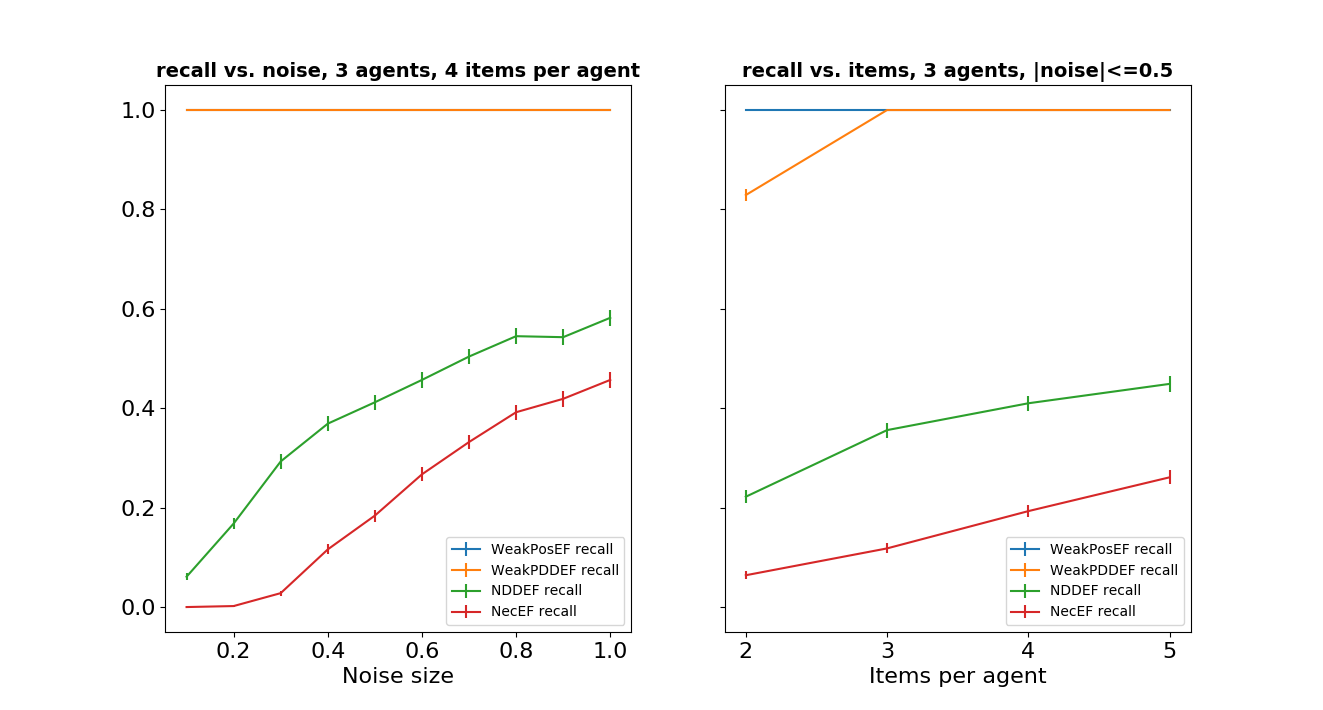
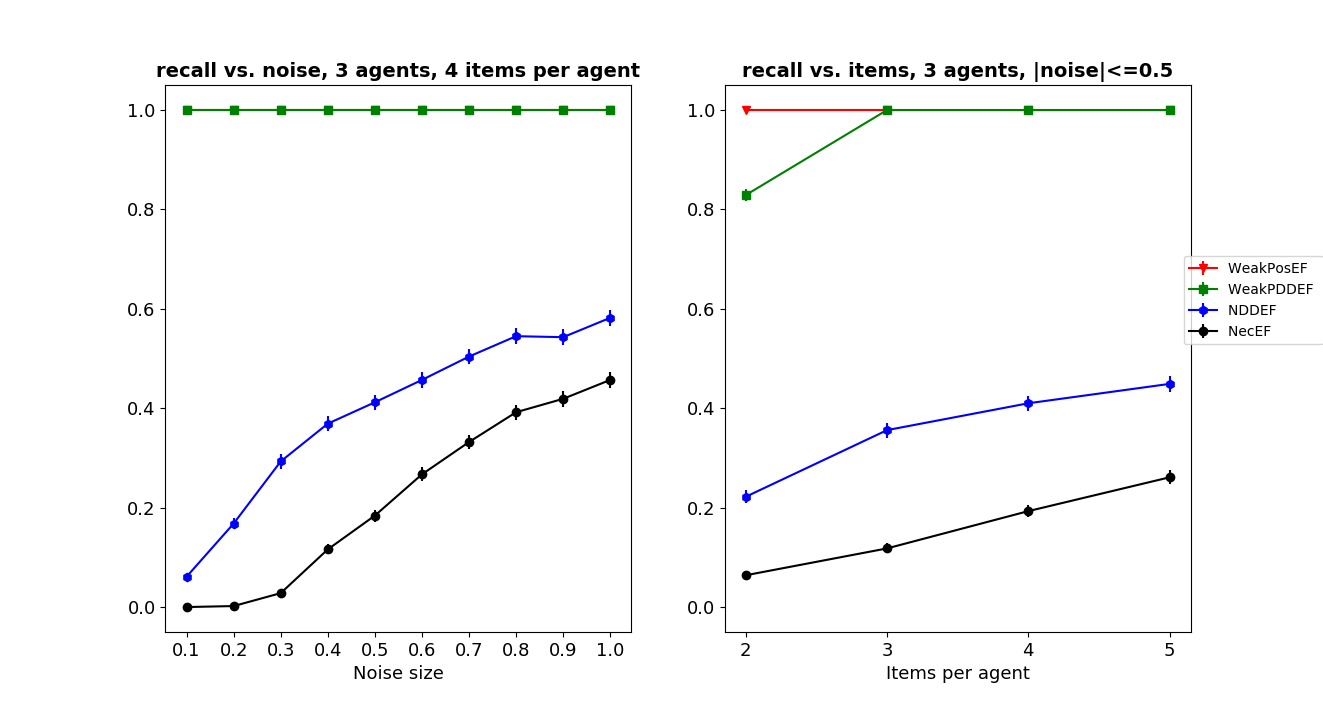
improve plots

diff --git a/simulations.py b/simulations.py
@@ -168,10 +168,13 @@ def simulateTwice(checkSingleProfile, columnNames:list,
 
 titleFontSize = 14
 legendFontSize = 10
-axesFontSize = 16
+axesFontSize = 13
 
 
-def plotResults(results1:DataFrame, results2:DataFrame, columnsAndStyles:list, title:str="probability", errorbars:bool=False):
+def plotResults(results1:DataFrame, results2:DataFrame, columnsAndStyles:list, title:str="probability", errorbars:bool=False, bbox_to_anchor=None):
+
+    ### Subplot 1: by noise size
+
     ax = plt.subplot(1, 2, 1)
     agentCount = int(results1['Agents'][0])
     iterations = int(results1['Iterations'][0])
@@ -181,11 +184,19 @@ def plotResults(results1:DataFrame, results2:DataFrame, columnsAndStyles:list, t
                  fontsize=titleFontSize, weight='bold')
     ax.set_xlabel('Noise size', fontsize=axesFontSize)
 
+    x_values = results1['Noise size']
     for columnName,style in columnsAndStyles:
-        results1.plot(x='Noise size', y=columnName, yerr=columnName+" err" if errorbars else None,
-                      ax=ax, legend=True, style=style, fontsize=axesFontSize)
+        y_values = results1[columnName]
+        if errorbars:
+            yerr_values = results1[columnName + " err"]
+            ax.errorbar(x_values, y_values, yerr=yerr_values, fmt=style)
+        else:
+            ax.plot(x_values, y_values, fmt=style)
+    plt.xticks(x_values.tolist(), fontsize=axesFontSize)
+    plt.yticks([0,0.2,0.4,0.6,0.8,1], fontsize=axesFontSize)
 
-    plt.legend(loc=0, prop={'size': legendFontSize})
+
+    ### Subplot 2: by number of items
 
     ax = plt.subplot(1, 2, 2, sharey=ax)
     agentCount = int(results2['Agents'][0])
@@ -195,15 +206,23 @@ def plotResults(results1:DataFrame, results2:DataFrame, columnsAndStyles:list, t
     ax.set_title(title+" vs. items, " + str(agentCount) + ' agents, |noise|<=' + str(maxNoise),
                  fontsize=titleFontSize, weight='bold')
     ax.set_xlabel('Items per agent', fontsize=axesFontSize)
-
+    x_values = results2['Items per agent']
     for columnName,style in columnsAndStyles:
-        results2.plot(x='Items per agent', y=columnName, yerr=columnName+" err" if errorbars else None,
-                      ax=ax, legend=True, style=style, fontsize=axesFontSize)
+        y_values = results2[columnName]
+        if errorbars:
+            yerr_values = results2[columnName + " err"]
+            ax.errorbar(x_values, y_values, yerr=yerr_values, fmt=style)
+        else:
+            ax.plot(x_values, y_values, fmt=style)
+    plt.xticks(x_values.tolist(), fontsize=axesFontSize)
+    plt.yticks([0,0.2,0.4,0.6,0.8,1], fontsize=axesFontSize)
 
-    itemCounts = results2['Items per agent'].tolist()
+    ax.legend(prop={'size': legendFontSize}, loc='center left')
+    the_legend = ax.legend()
+    the_legend.set_bbox_to_anchor([1.3,0.7])
+    for t in the_legend.get_texts():
+        t.set_text(t.get_text().replace(title,""))
 
-    plt.legend(loc=0, prop={'size': legendFontSize})
-    plt.xticks(itemCounts)
 
     plt.show()
 

diff --git a/main-JAIR-proportionality.py b/main-JAIR-proportionality.py
@@ -121,8 +121,8 @@ if __name__ == "__main__":
 		(results1, results2) = simulations.simulateTwice(
 			checkProportionality, columnNames, agents, iterations, filename)
 	else:   # Use existing results:
-		filename = "3agents-1000iters-pr"
-		# filename = "2agents-1000iters-pr"
+		# filename = "3agents-1000iters-pr"
+		filename = "2agents-1000iters-pr"
 		results1 = pandas.read_csv("results/"+filename+"-noise.csv")
 		results2 = pandas.read_csv("results/"+filename+"-items.csv")
 

diff --git a/main-JAIR-envyfreeness.py b/main-JAIR-envyfreeness.py
@@ -169,7 +169,7 @@ if __name__ == "__main__":
         ('WeakPDDEF precision', 'g-s'),
         ('Baseline precision', 'm-1'),
         # ('PosEF precision', 'r-v'),
-		('WeakPosEF precision', 'g-s'),
+		('WeakPosEF precision', 'r-v'),
 	]
     columnsForRecall = [
         ('WeakPosEF recall', 'r-v'),
